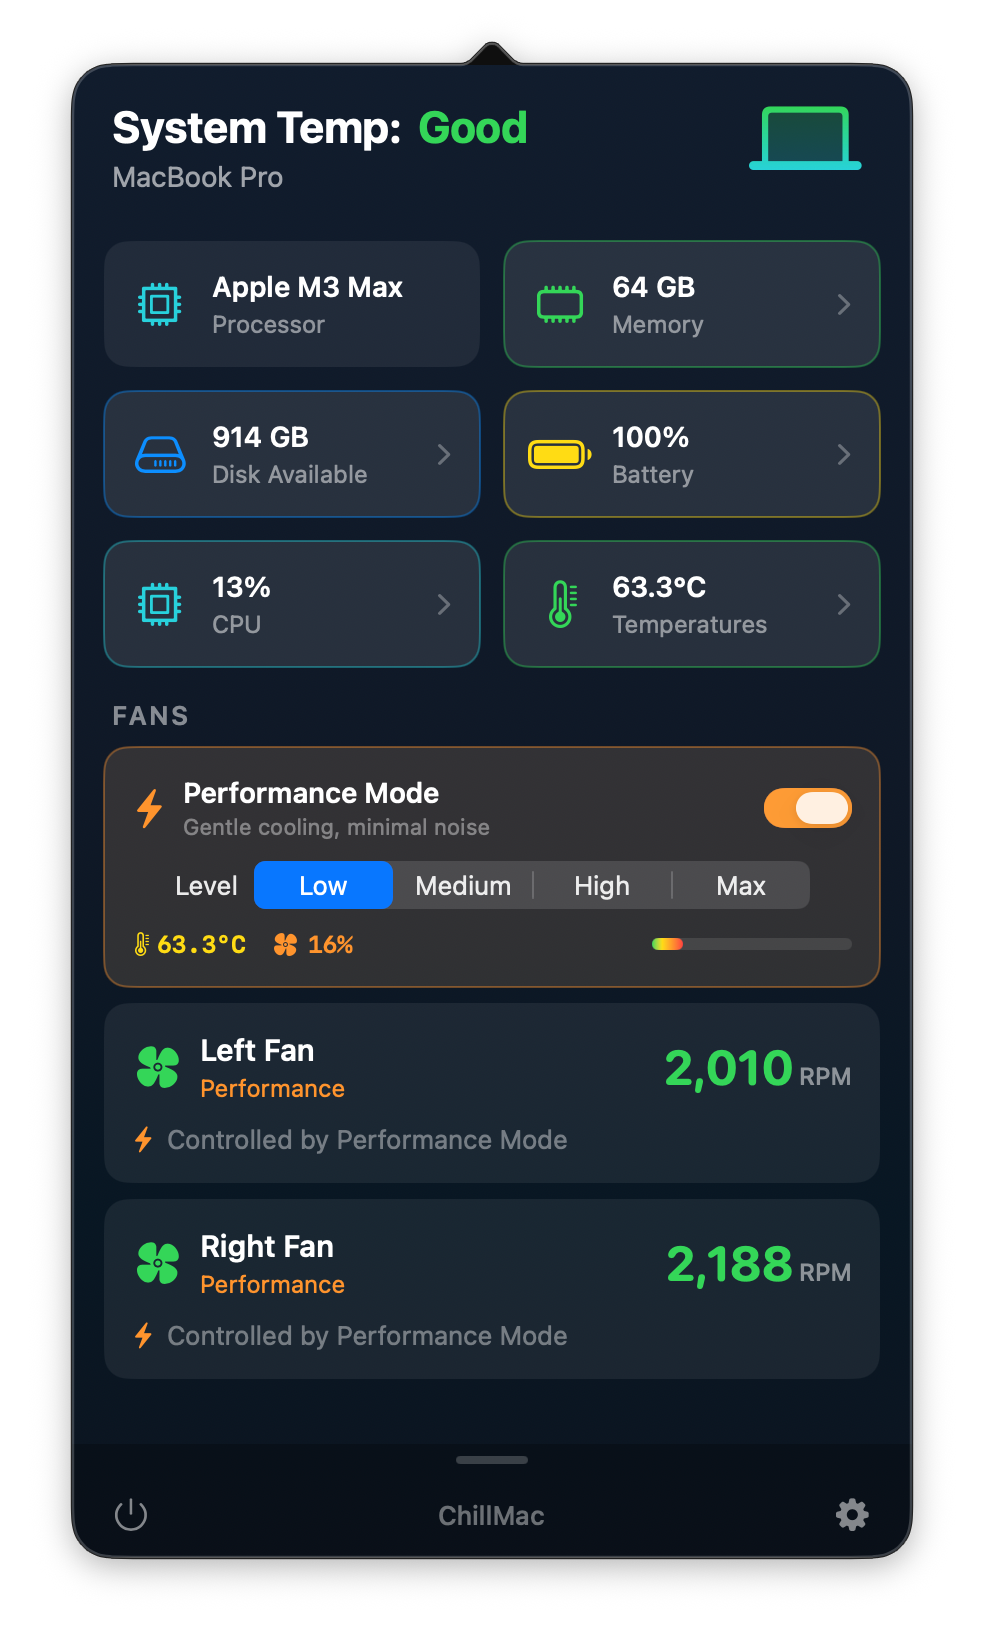
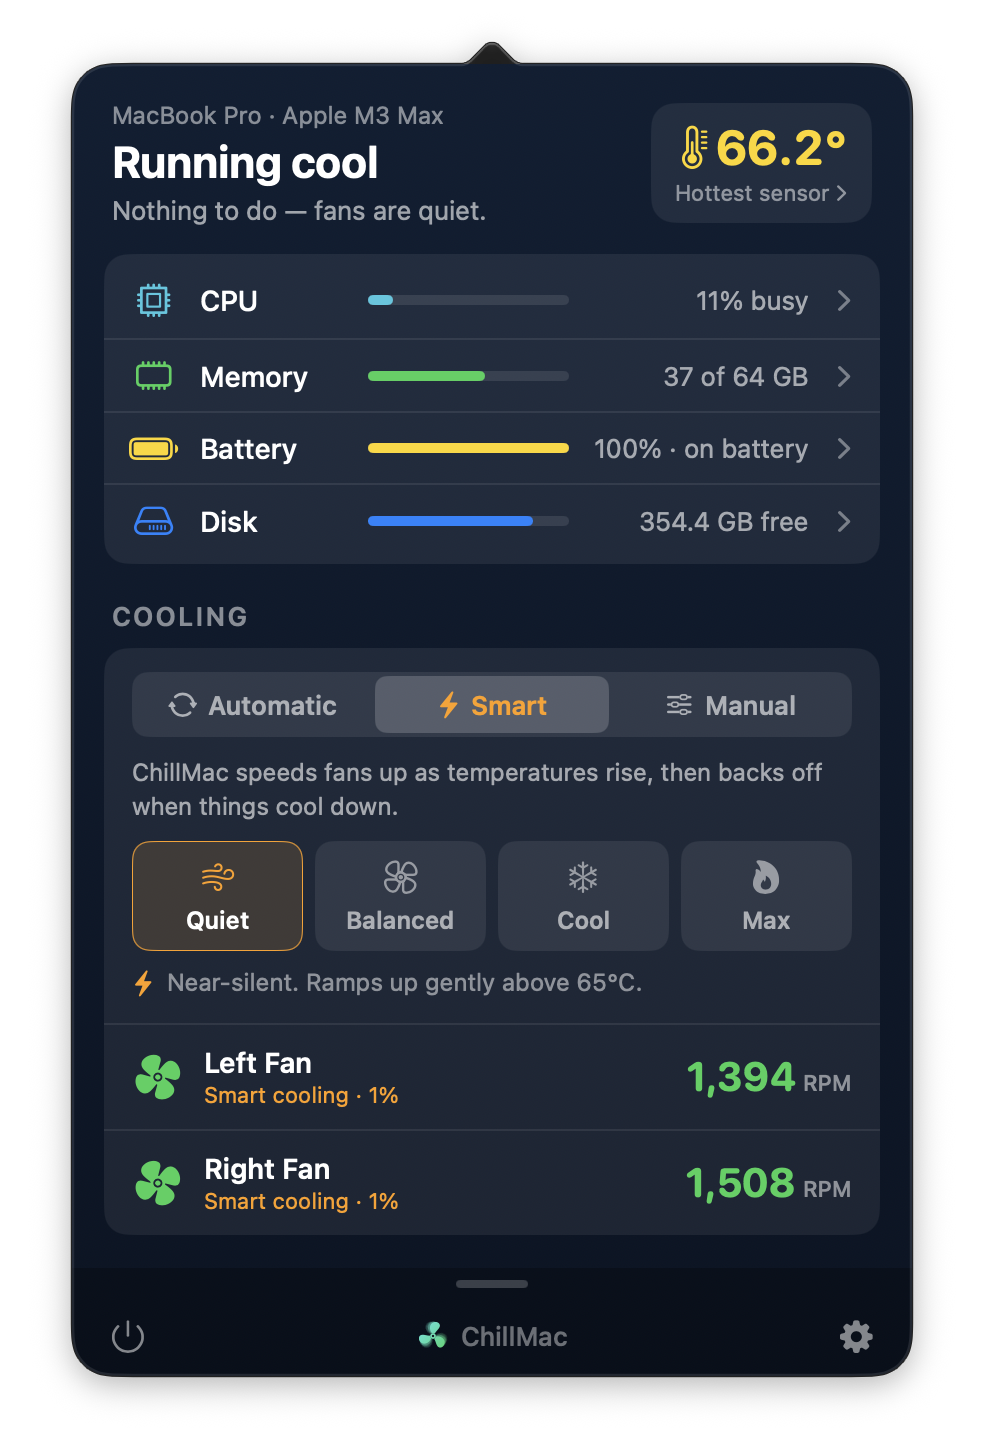
feat: Update popover-main screenshot and alt text for clarity and improved visuals

diff --git a/README.md b/README.md
@@ -11,7 +11,7 @@ A free, open-source macOS menu bar app that tells you how your Mac is doing at a
 ## Screenshots
 
 <p align="center">
-  <img src="assets/screenshots/popover-main.png" alt="ChillMac menu bar popover with system temperature, hardware stats, performance mode, and per-fan RPM controls" width="420">
+  <img src="assets/screenshots/popover-main.png" alt="ChillMac popover showing a plain-language status, the hottest sensor, CPU, memory, battery and disk vitals, the Cooling control set to Smart, and both fans' RPM" width="420">
   <img src="assets/screenshots/popover-settings.png" alt="ChillMac Settings with fan control status, appearance, menu bar temperature, and cooling behavior options" width="420">
 </p>
 
